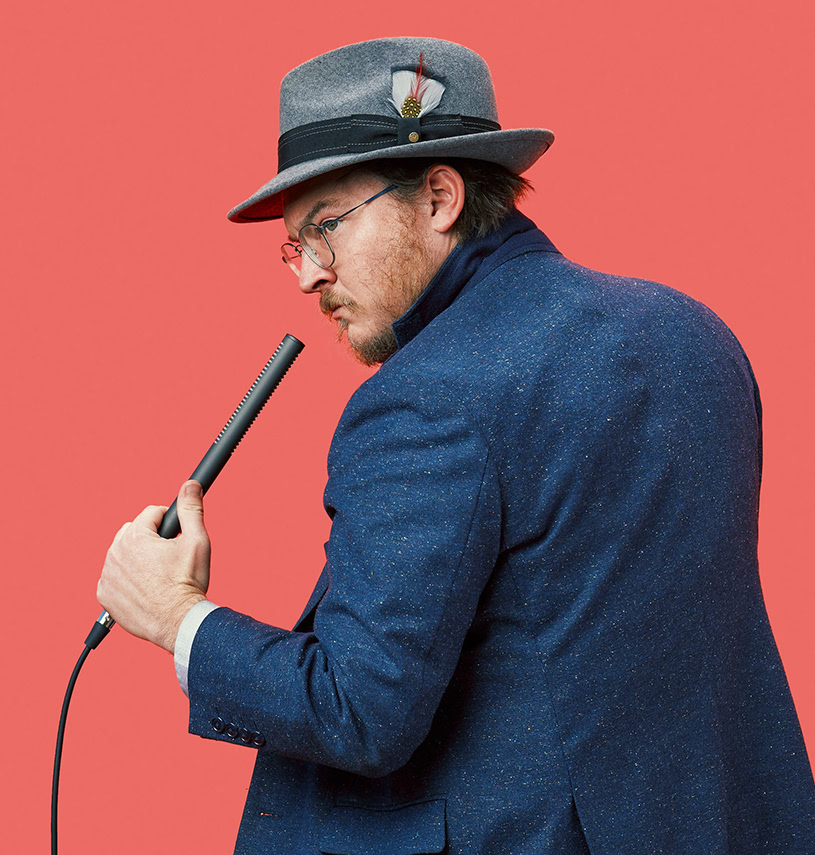
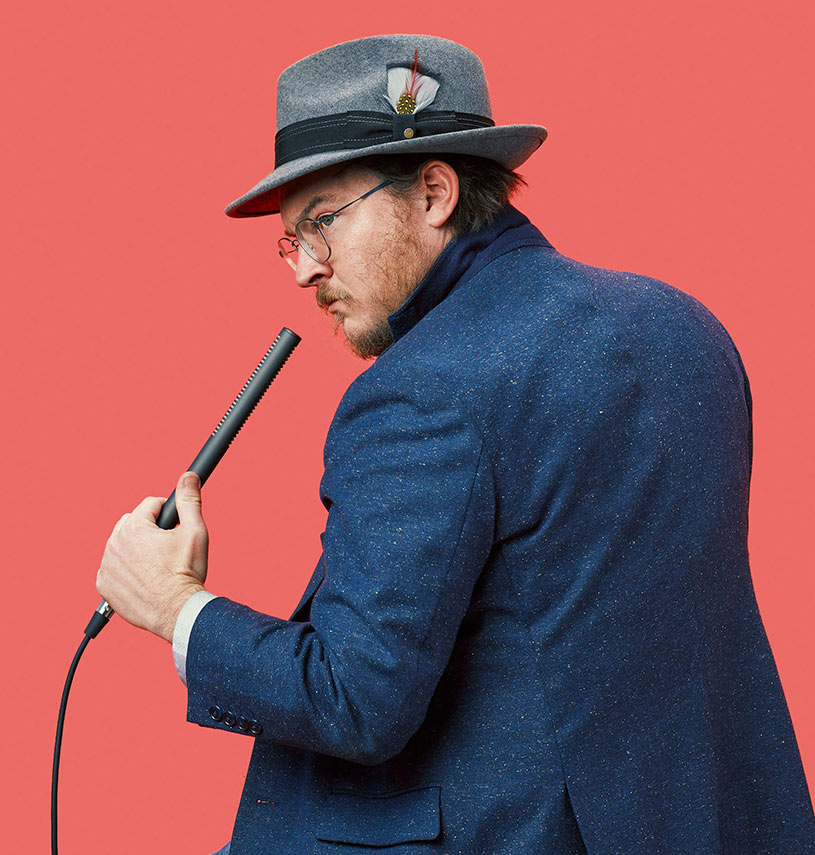
Optimize assets. Retina bakcground mixin.

Changed region(s): [[0.0613, 0.0304, 1.0, 1.0]]

diff --git a/src/styles/mixins.scss b/src/styles/mixins.scss
@@ -164,3 +164,20 @@
     }
   }
 }
+
+// Retina background images
+@mixin imgRetina($image, $extension, $width, $height, $position: center, $repeat: no-repeat) {
+  background: url($image + '.' + $extension) $repeat $position;
+
+  @media
+  screen and (-webkit-min-device-pixel-ratio: 2),
+  screen and (   min--moz-device-pixel-ratio: 2),
+  screen and (   -moz-min-device-pixel-ratio: 2),
+  screen and (     -o-min-device-pixel-ratio: 2/1),
+  screen and (        min-device-pixel-ratio: 2),
+  screen and (             min-resolution: 192dpi),
+  screen and (             min-resolution: 2dppx) {
+     background: url($image + '@2x' + '.' + $extension) $repeat $position;
+     background-size: cover;
+  }
+}

diff --git a/src/components/intro/Intro.scss b/src/components/intro/Intro.scss
@@ -120,7 +120,7 @@
     width: 100%;
     height: 60%;
 
-    background-image: url('assets/images/mobile-tory.jpg');
+    @include imgRetina('assets/images/mobile-troy', 'jpg', 767px, 837px, left top);
     background-repeat: no-repeat;
     background-size: cover;
     background-color: #eb6860;
@@ -132,12 +132,16 @@
       height: 100%;
 
       background-image: none;
+
+      .hasTwoButtons & {
+        height: 100%;
+      }
     }
-
-
   }
 
   &__source {
+    box-shadow: 14px 14px 40px 0px rgba(15,15,15,0.22);
+
     &.center {
       max-width: 80%;
     }

diff --git a/src/pages/index.tsx b/src/pages/index.tsx
@@ -65,8 +65,8 @@ export default () => {
       rightSide: {
         color: '#ed8781',
         imagePosition: 'center',
-        image: require('assets/images/cover.png'),
-        image2x: require('assets/images/cover@2x.png'),
+        image: require('assets/images/cover.jpg'),
+        image2x: require('assets/images/cover@2x.jpg'),
       },
     },
     {
